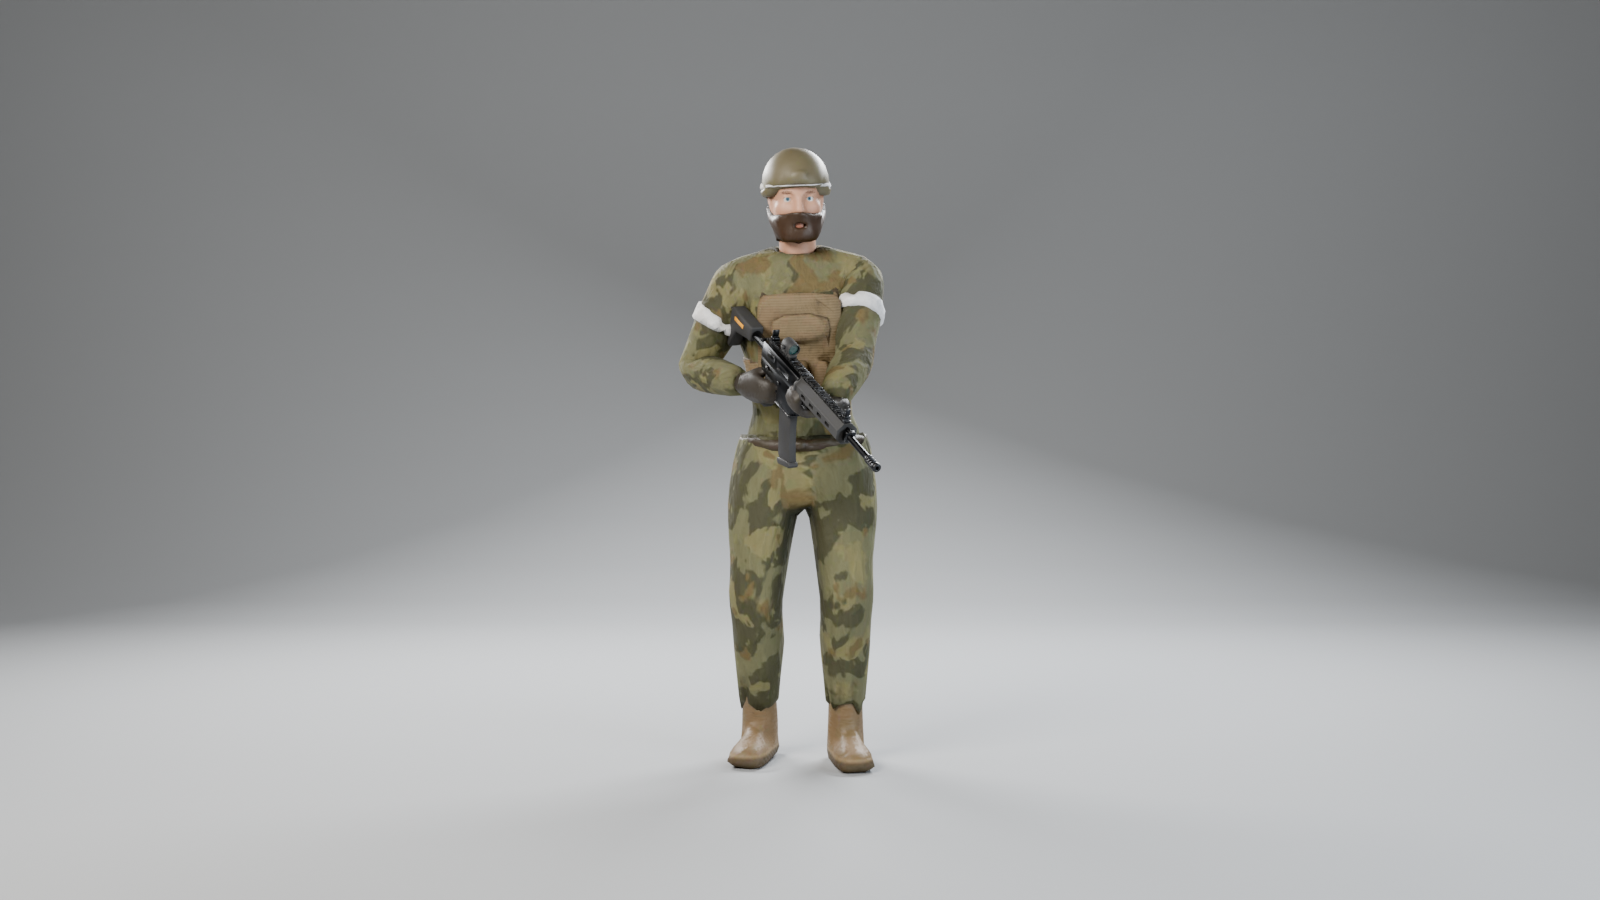
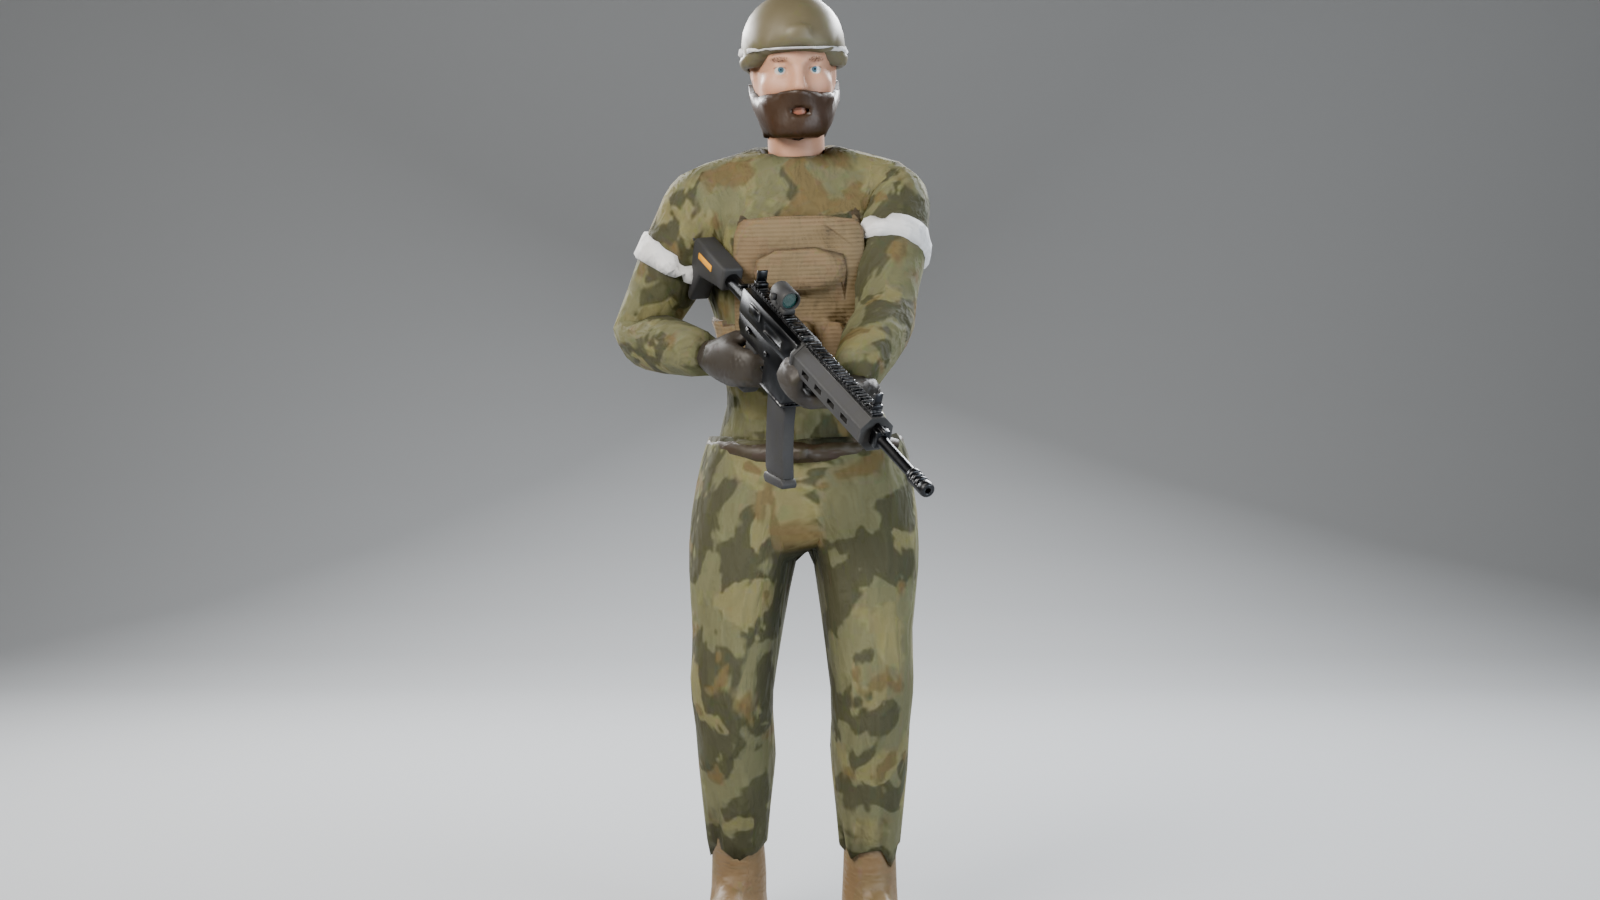
Render framing fix

Changed region(s): [[0.375, 0.0, 0.5938, 1.0], [0.0, 0.7156, 0.125, 0.7778]]

diff --git a/tools/make_characters.py b/tools/make_characters.py
@@ -2513,7 +2513,7 @@ def render_character(cid):
         set_frames([rig])
         ctr = Vector((0, 0, 0.93))
         studio(sc, ctr)
-        camera(sc, ctr + Vector((0.0, -1.0, 0.06)).normalized() * 4.3, ctr + Vector((0, 0, 0.02)), 50)
+        camera(sc, ctr + Vector((0.0, -1.0, 0.06)).normalized() * 5.1, ctr + Vector((0, 0, -0.01)), 50)
         sc.render.filepath = os.path.join(RENDER_DIR, "char_%s_%s.png" % (cid, view))
         t = time.time()
         bpy.ops.render.render(write_still=True)
